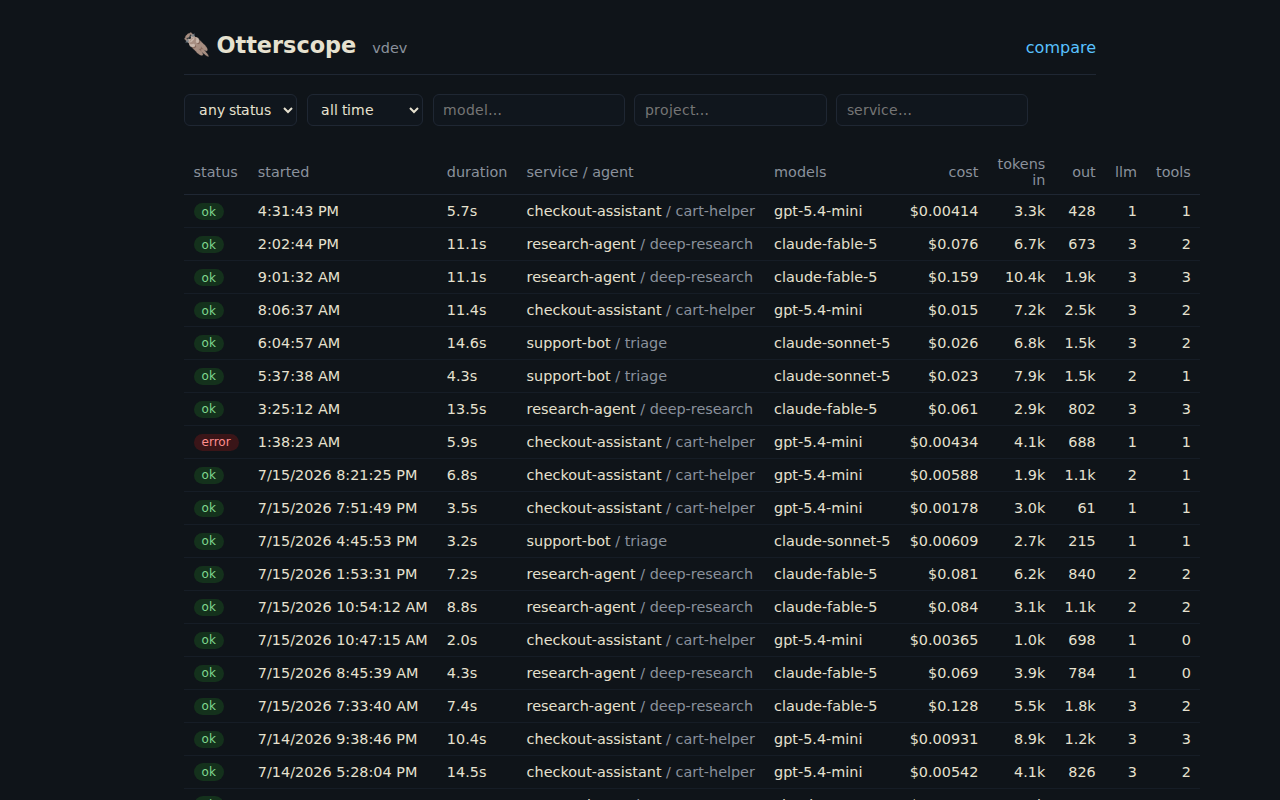
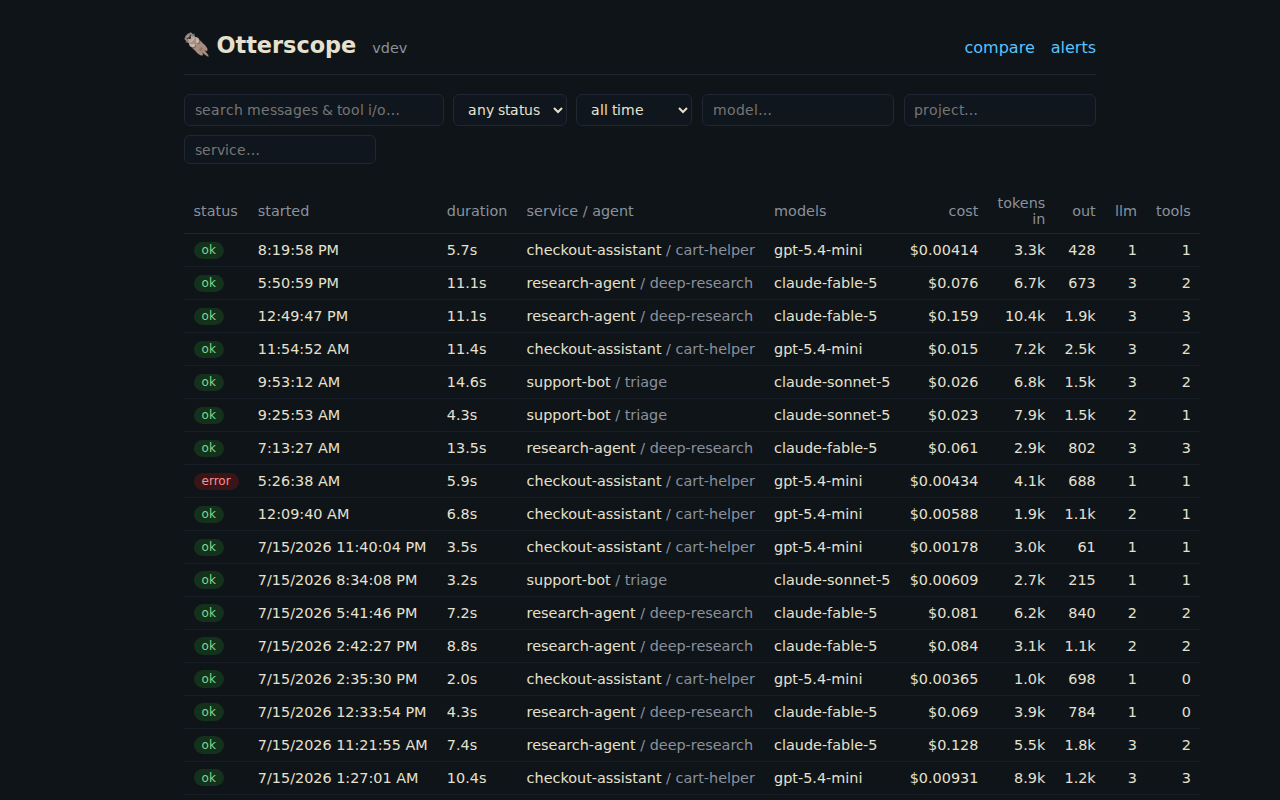
docs: refresh screenshots (search box, nav) + add alerts page (#82)
Runs-list/run-detail/compare recaptured over current UI (filter bar now
has a full-text search box; header nav has compare + alerts). New
alerts.png for the alerting feature. Captured with tools/screenshots.mjs
over sample data.

diff --git a/README.md b/README.md
@@ -52,6 +52,8 @@ claude mcp add otterscope --transport http http://localhost:8317/mcp
 - **Compare view** — error rate, p50/p95 latency, cost, and assertion pass rates side-by-side across any two filters: this week vs last, model A vs model B. *"Did my prompt change make things worse?"* is one URL.
 - **Alerting** — rules on error rate, cost, p95 latency, or an assertion's fail rate over a window; Otterscope POSTs a JSON notification to your webhook (Slack/Discord/…) when a rule starts firing and again when it resolves.
 
+  ![Alerts — rules on error rate, cost, latency, or assertion failures firing to a webhook](docs/screenshots/alerts.png)
+
   ![Compare — two models side by side: error rate, latency percentiles, cost, assertion pass rates](docs/screenshots/compare.png)
 - **Drop-in OTel compatibility** — normalizes the OTel GenAI conventions (both current dialects), OpenInference (OpenAI Agents SDK, CrewAI, LangChain), and the Vercel AI SDK. Raw payloads are retained, so old data benefits from future normalizer improvements.
 - **Ask your agent about itself** — a built-in [MCP server](docs/mcp.md) (`POST /mcp`) lets Claude Code and other MCP clients query your runs, steps, cost, and stats. `claude mcp add otterscope --transport http http://localhost:8317/mcp`.
